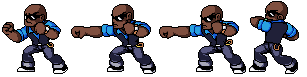
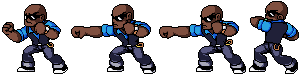
change boss frame

Changed region(s): [[0.0297, 0.0, 1.0, 0.961], [0.0, 0.4675, 0.0297, 0.4935]]

diff --git a/juego.py b/juego.py
@@ -348,6 +348,8 @@ class Boss(pygame.sprite.Sprite):
         pygame.sprite.Sprite.__init__(self)
         self.uno = corte('boss_1.png', 4,1,3)
         self.dos = corte('boss_0.png', 4,1,3)
+        self.tres = corte('boss1_1.png', 4,1,3)
+        self.cuatro = corte('boss1_0.png', 4,1,3)
         self.image = self.uno[0][0][0]
         self.rect=self.image.get_rect()
         self.rect.x=p[0]
@@ -362,8 +364,14 @@ class Boss(pygame.sprite.Sprite):
     def update(self):
         if self.siguiente == "p":
             self.image = self.uno[0][0][0+self.sig]
-        else:
+        if self.siguiente == "s":
             self.image = self.dos[0][0][0+self.sig]
+
+
+        if self.siguiente == "t":
+            self.image = self.tres[0][0][0+self.sig]
+        if self.siguiente == "r":
+            self.image = self.cuatro[0][0][0+self.sig]
 
         self.sig = self.sig + 1
         if self.sig == 4:
@@ -630,9 +638,9 @@ if __name__ == '__main__':
 
             if estanCerca(boss,j,600) and (cont % 80) == 0:
                 if j.rect.x < boss.rect.x:
-                    boss.siguiente = "s"
+                    boss.siguiente = "r"
                 else:
-                    boss.siguiente = "p"
+                    boss.siguiente = "t"
                 boss.velx = -j.velx
 
         colisionBalasEnemigos()
